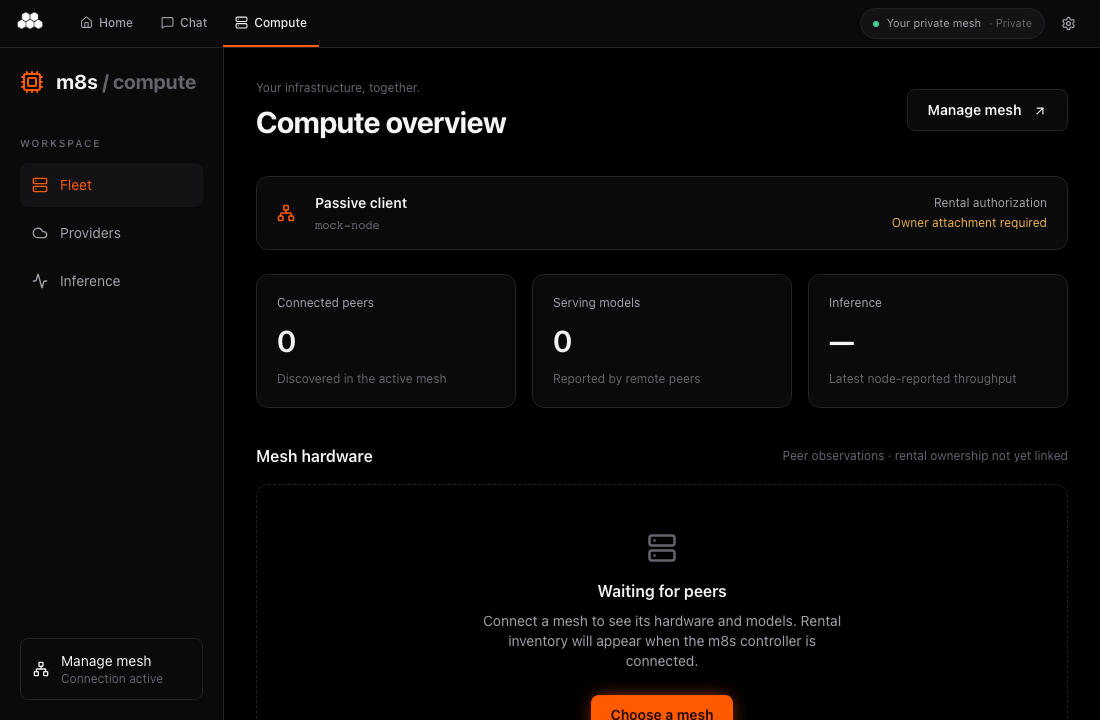
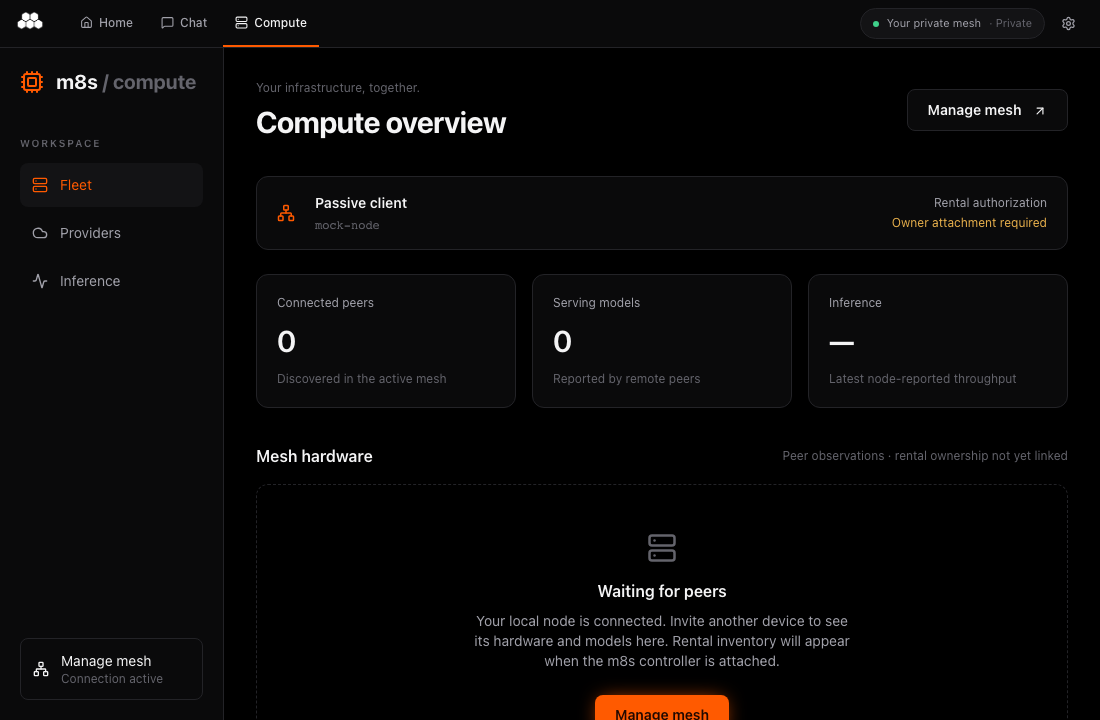
fix: clarify passive reconnect progress and empty fleet state

Changed region(s): [[0.4327, 0.8556, 0.7727, 0.9472], [0.5255, 0.9778, 0.68, 1.0]]

diff --git a/ui/src/screens/Compute.tsx b/ui/src/screens/Compute.tsx
@@ -176,10 +176,12 @@ export default function Compute({
                   {connected ? 'Waiting for peers' : 'Bring your compute into view'}
                 </h3>
                 <p className="mx-auto mt-2 mb-6 max-w-sm text-sm text-ink-muted">
-                  Connect a mesh to see its hardware and models. Rental inventory will appear when
-                  the m8s controller is connected.
+                  {connected
+                    ? 'Your local node is connected. Invite another device to see its hardware and models here.'
+                    : 'Connect a mesh to see its hardware and models.'}{' '}
+                  Rental inventory will appear when the m8s controller is attached.
                 </p>
-                <Button onClick={onMesh}>Choose a mesh</Button>
+                <Button onClick={onMesh}>{connected ? 'Manage mesh' : 'Choose a mesh'}</Button>
               </div>
             )}
           </>

diff --git a/ui/src/screens/Progress.tsx b/ui/src/screens/Progress.tsx
@@ -66,7 +66,7 @@ export default function Progress({ onCancel, onErrorReset, passive }: ProgressPr
   ]
 
   const heading = passive
-    ? 'Starting your private mesh…'
+    ? 'Connecting your mesh…'
     : isRuntime
       ? 'Preparing your Mac’s AI engine…'
       : isDownloading
@@ -158,7 +158,11 @@ export default function Progress({ onCancel, onErrorReset, passive }: ProgressPr
       </div>
 
       <p className="max-w-md text-center text-[14px] text-ink-faint transition-opacity duration-700">
-        {SOVEREIGNTY_LINES[lineIdx]}
+        {passive
+          ? lineIdx > 0
+            ? 'Still connecting. Previous peers may be offline. You can return Home and try again later.'
+            : 'You can add an inference host after your mesh connects.'
+          : SOVEREIGNTY_LINES[lineIdx]}
       </p>
 
       <button

diff --git a/ui/src/App.tsx b/ui/src/App.tsx
@@ -519,13 +519,9 @@ export default function App() {
           />
         )
       }
-      return (
-        <Progress
-          passive={loadLastConfig()?.kind === 'host' && !loadLastConfig()?.model}
-          onCancel={cancel}
-          onErrorReset={errorReset}
-        />
-      )
+      const config = loadLastConfig()
+      const passive = config?.kind === 'host' ? !config.model : config ? !config.share : false
+      return <Progress passive={passive} onCancel={cancel} onErrorReset={errorReset} />
     }
 
     case 'main':

diff --git a/docs/decisions/001-compute-console.md b/docs/decisions/001-compute-console.md
@@ -82,8 +82,8 @@ shown only for an attached running mesh; Home retains the current connection.
 Recent successful connections are persisted in a mode-0600 backend history file
 under the app's data root so they survive changes in the WebView origin/port.
 Private connections retain an invite for reconnecting to the same mesh rather
-than silently creating a fresh network. Expired/unreachable invites report join
-errors. The history is convenience state, not a rental authorization grant.
+than silently creating a fresh network. Reconnect checks current availability; the SDK may start a local client after
+its old bootstrap peers time out. That is not proof of remote model readiness. The history is convenience state, not a rental authorization grant.
 
 Home also scans Mesh's local runtime inventory and probes live loopback management
 endpoints. Joining a discovered mesh creates this app's client; it does not take
@@ -116,3 +116,12 @@ UI build/lint/formatting and all 38 mocked browser tests pass. Repeated native
 private/public start-stop checks with stdin explicitly inherited from /dev/tty
 also pass, confirming initialization removes the terminal input dependency.
 Recent meshes survived native restart (three saved test connections observed).
+
+A real saved-private-mesh reconnect also reached a local passive Running state
+after its old, stopped bootstrap peer exhausted retries (about two minutes).
+No inference hosts were present. The SDK currently logs that peer-join failure
+and still starts the local node; a shorter/cancellable peer-rejoin policy remains
+an upstream integration issue. The progress screen now describes network
+connection rather than model loading for all passive joins.
+Eight focused browser checks passed again after correcting passive reconnect
+progress and the connected-but-empty fleet message.
